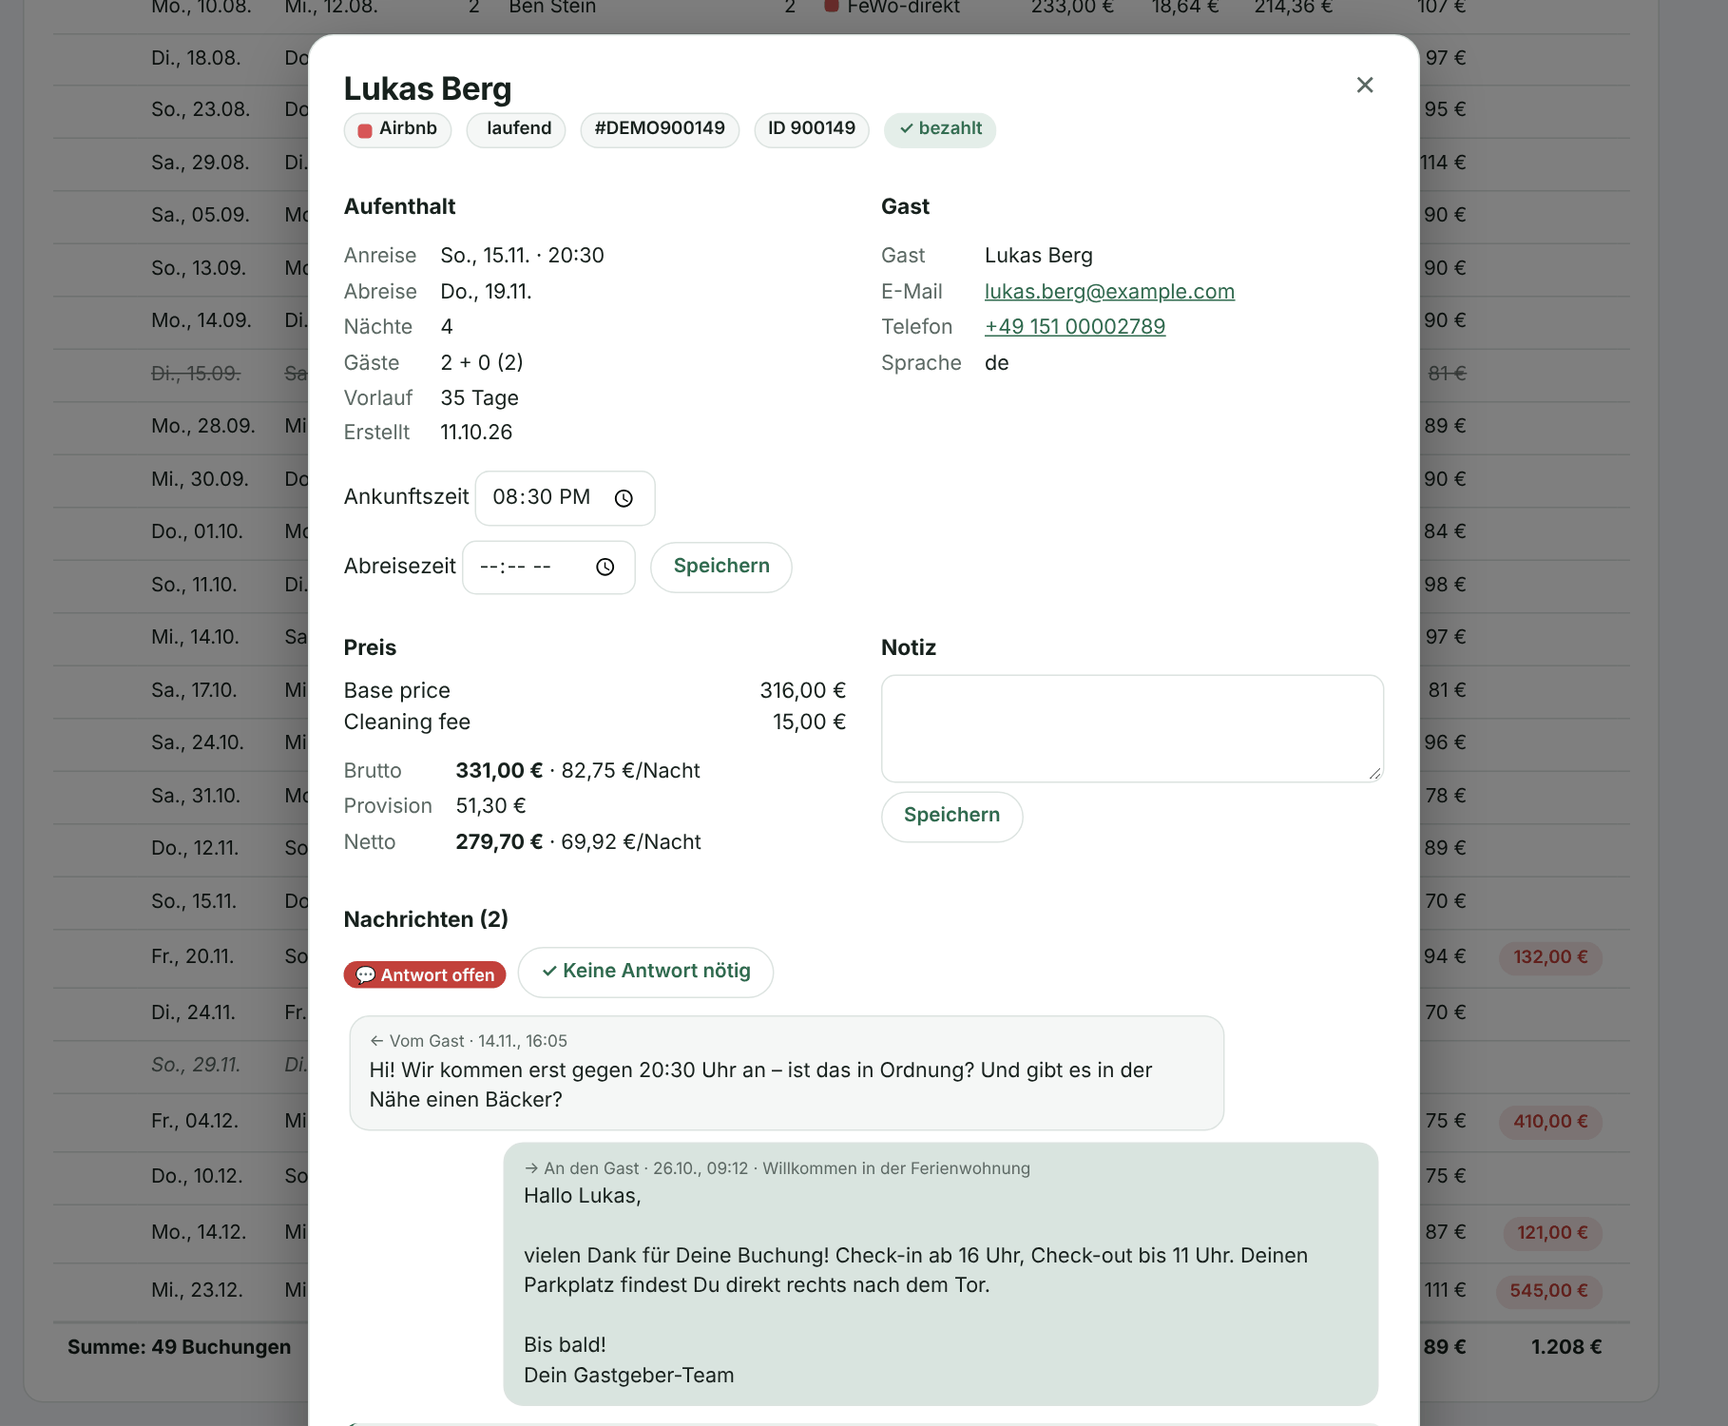
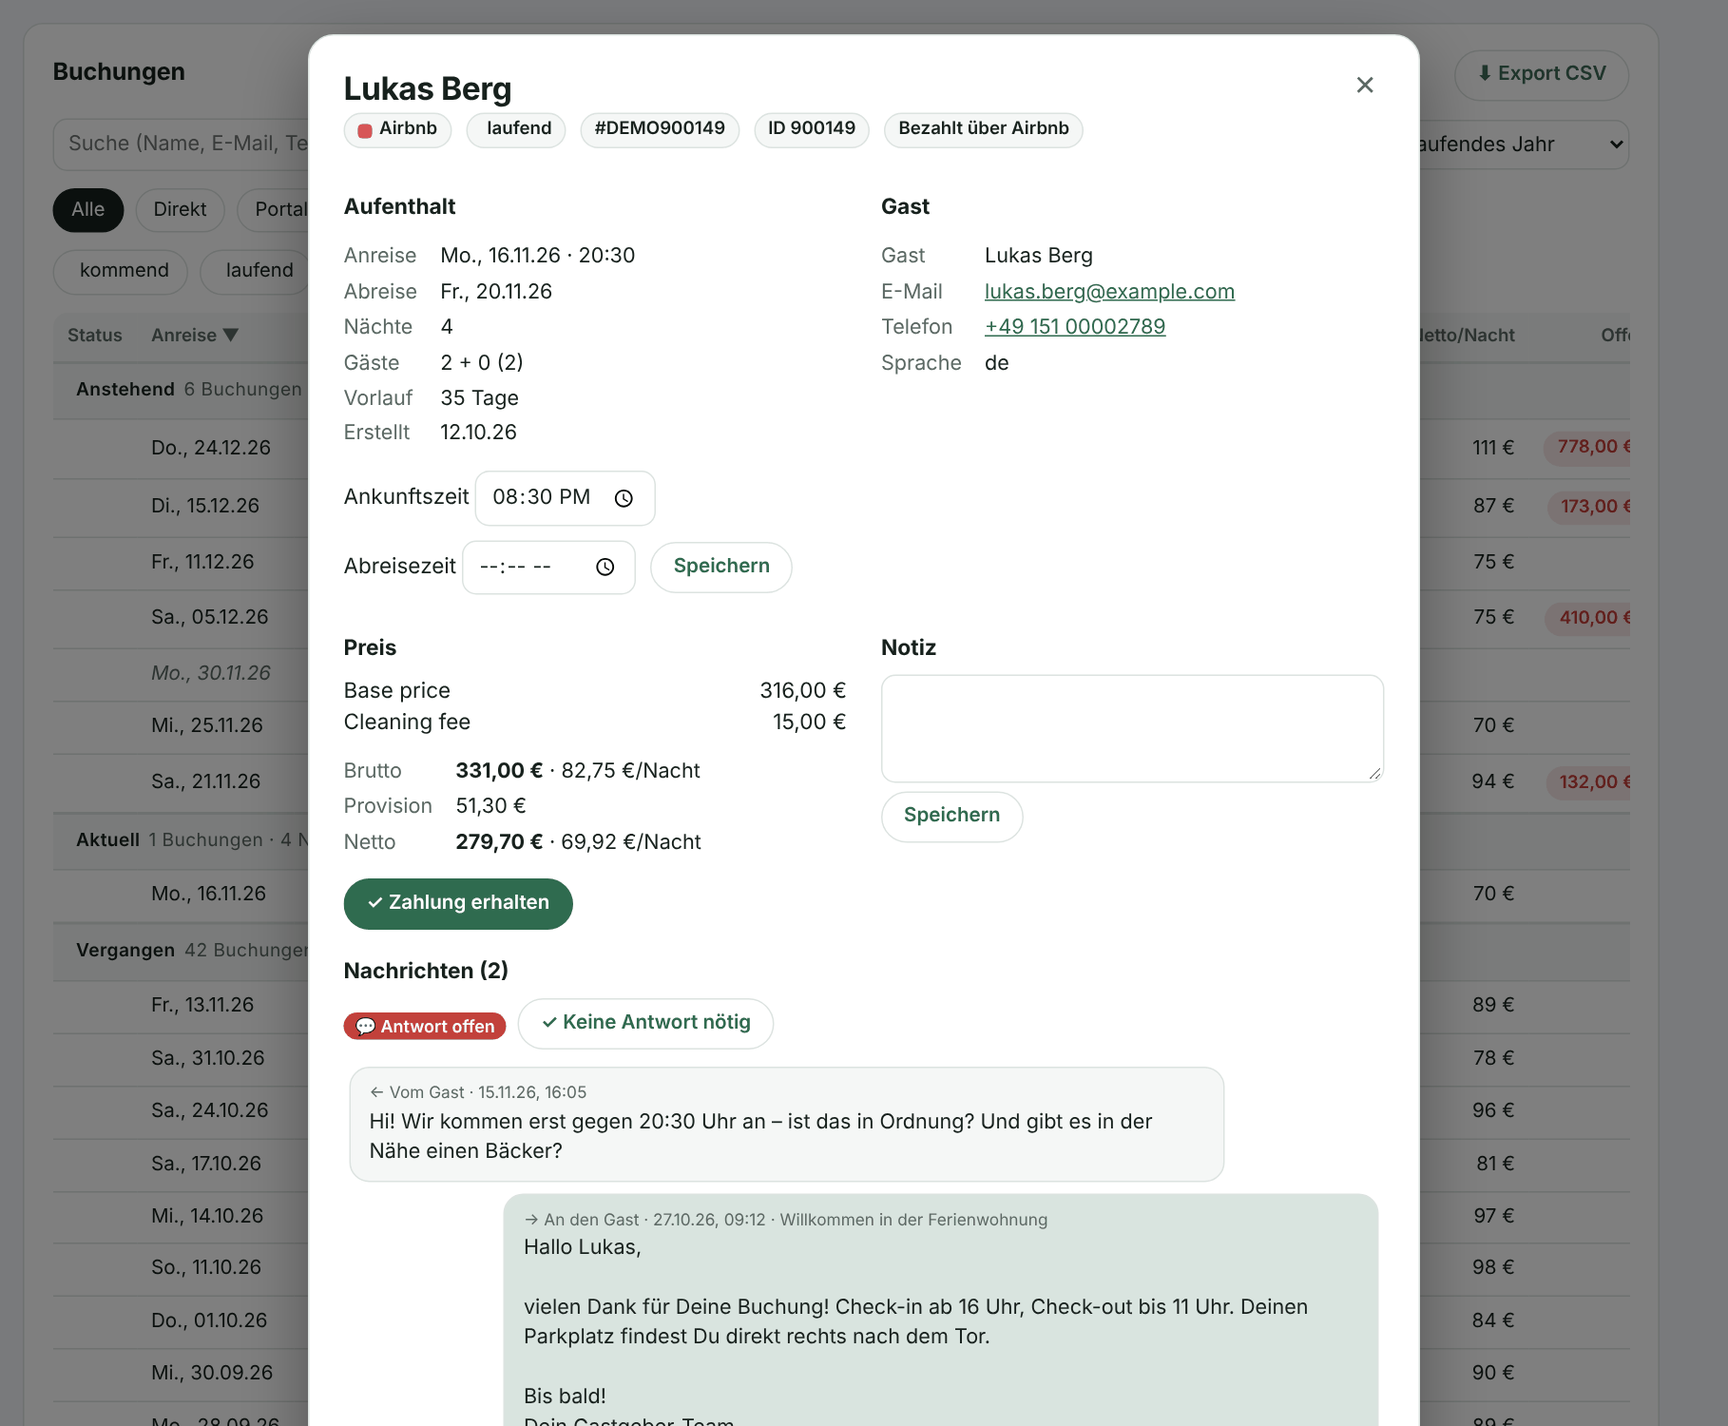
Dashboard: Portal-Buchungen als erhalten markieren (Buchungsdetails + Wartet auf dich)
Portal-Buchungen haben im Backend immer offen = 0; Status kommt jetzt aus
Smoobu price-paid. Details: Zahlung erhalten / Als offen markieren, Kopf
neutral "Bezahlt über <Kanal>". Übersicht: ab Anreisetag (bis 60 Tage zurück,
eigener Abruf nur Portale) als "Zahlung offen" mit Kanal, max. 3 + Rest-Zeile.

Claude-Session: https://claude.ai/code/session_01FCC4YZEa9BgT2hT7dsEPWb

diff --git a/custom_components/smoobu/www/smoobu-cards.js b/custom_components/smoobu/www/smoobu-cards.js
@@ -98,6 +98,8 @@ const EN = {
   "Als offen markieren": "Mark as open", "Anzahlung offen": "Prepayment open", "Restbetrag": "Balance",
   "Zahlung": "Payment", "als erhalten markieren": "mark as received", "wieder als offen markieren": "mark as open again",
   "In Smoobu gespeichert": "Saved in Smoobu", "offen": "open",
+  // v1.17.0: Portal-Buchungen als erhalten markieren
+  "über": "via", "Portal": "Portal", "Weitere ohne Markierung": "More not yet marked",
 };
 let LANG = "de";
 const t = (s) => (LANG === "de" ? s : EN[s] || s);
@@ -770,6 +772,9 @@ class SmoobuOverviewCard extends SmoobuCard {
     .todo .ta { display: flex; gap: 8px; align-items: center; flex-wrap: wrap; }
     .todo .ago { margin-left: auto; font-size: .78rem; color: var(--sm-muted); }
     .todo .amt { font-size: 1.15rem; font-weight: 650; margin-right: auto; }
+    /* v1.17.0 (Portal): Brutto nur zur Orientierung – gedämpft, da beim Portal kein Geld offen ist */
+    .todo .amt.muted { color: var(--sm-muted); font-weight: 500; font-size: 1rem; }
+    .todo p .dot { width: 8px; height: 8px; vertical-align: 1px; }
     .done { color: var(--sm-muted); padding: 14px 0; }
     .foot { font-size: .76rem; color: var(--sm-muted); margin: 10px 2px 0; }
   `;
@@ -781,12 +786,19 @@ class SmoobuOverviewCard extends SmoobuCard {
     const m0 = D(today.slice(0, 8) + "01");
     const apts = this.multi ? info.wohnungen.filter((w) => !tg.entry_id || w.entry_id === tg.entry_id) : [apt];
     const rateEnd = iso(addDays(D(today), Math.max(this._config.gap_days, this._config.band_days) + 21));
-    const [month, ytd, last12, prevYear, list, ...rates] = await Promise.all([
+    // v1.17.0 (Portal): eigener Abruf nur für „Wartet auf dich“ – Portal-Buchungen ohne price-paid ab dem Anreisetag.
+    // Das normale Fenster (ab gestern) enthält schon abgereiste Gäste nicht mehr; es zu verlängern würde Band,
+    // Status-Satz, Lücken und Antwortstatus mitverändern. Daher separat: 60 Tage zurück bis morgen, nur Portale
+    // (Backend-Filter „portale“ = Kanalgruppe Portal). 60 Tage = genug Puffer für Rechnungen, ohne Altlasten
+    // aus Jahren vor der Einführung der Markierung anzuzeigen.
+    const [month, ytd, last12, prevYear, list, portalList, ...rates] = await Promise.all([
       this.store.ws("smoobu/analytics", { ...tg, period: "monat", compare: "vorjahr_stand" }),
       this.store.ws("smoobu/analytics", { ...tg, period: "jahr_bis_heute", compare: "vorjahr" }),
       this.store.ws("smoobu/analytics", { ...tg, start: iso(addMonths(m0, -11)), end: iso(addMonths(m0, 1)), compare: "vorjahr" }),
       this.store.ws("smoobu/analytics", { ...tg, period: "vorjahr", compare: "kein" }).catch(() => null),
       this.store.ws("smoobu/bookings", { ...tg, start: iso(addDays(D(today), -1)), end: iso(addDays(D(today), 180)) }),
+      this.store.ws("smoobu/bookings", { ...tg, start: iso(addDays(D(today), -60)), end: iso(addDays(D(today), 1)), channels: ["portale"] })
+        .then((r) => r.buchungen).catch(() => []),
       ...apts.map((w) => this.store.ws("smoobu/rates", { ...tg, apartment_id: w.apartment_id, start: today, end: rateEnd })
         .then((r) => r.preise).catch(() => ({}))),
     ]);
@@ -799,7 +811,9 @@ class SmoobuOverviewCard extends SmoobuCard {
       catch (e) { status = {}; }
     }
     const ratesBy = Object.fromEntries(apts.map((w, i) => [w.apartment_id, rates[i] || {}]));
-    return { apt, apts, info, today, month, ytd, last12, prevYear, bookings, status, ratesBy };
+    // Anreise ≤ heute, nicht storniert/gesperrt, ohne offenen Betrag (sonst normaler Weg) und noch nicht markiert
+    const portalOpen = portalList.filter((b) => !b.storniert && !b.blockiert && portalPay(b) && !b.bezahlt && b.anreise <= today);
+    return { apt, apts, info, today, month, ytd, last12, prevYear, bookings, status, ratesBy, portalOpen };
   }
 
   // ---- Kopf ----------------------------------------------------------------
@@ -984,7 +998,7 @@ class SmoobuOverviewCard extends SmoobuCard {
 
   // ---- Listen --------------------------------------------------------------
   lists(d) {
-    const { apt, apts, today, bookings, status, ratesBy } = d;
+    const { apt, apts, today, bookings, status, ratesBy, portalOpen = [] } = d;
     const cur = apt.currency;
     const guests = bookings.filter((b) => !b.blockiert);
     const next = guests.filter((b) => b.anreise >= today && b.anreise > (this.multi ? "" : today)).slice(0, this._config.upcoming);
@@ -1008,8 +1022,13 @@ class SmoobuOverviewCard extends SmoobuCard {
     const unpaidAll = guests.filter((b) => b.offen > 0 && b.gruppe !== "Portal" && b.status !== "vergangen");
     const soon = iso(addDays(D(today), 30));
     const unpaid = unpaidAll.filter((b) => b.anreise <= soon).slice(0, 3);
+    // v1.17.0 (Portal): Portal-Buchungen ohne Markierung ab dem Anreisetag, älteste zuerst (Rechnung am längsten
+    // fällig), max. 3 – Rest als Anzahl/Summe-Zeile wie „Später fällig“
+    const portalAll = [...portalOpen].sort((a, b) => a.anreise.localeCompare(b.anreise) || a.id - b.id);
+    const portalShow = portalAll.slice(0, 3);
+    const portalRest = portalAll.slice(3);
     // v1.17.0: für die Buttons „✓ Erhalten“ / „✓ Anzahlung“ (bind sucht die Buchung per ID)
-    this._payBookings = new Map(unpaid.map((b) => [b.id, b]));
+    this._payBookings = new Map([...unpaid, ...portalShow].map((b) => [b.id, b]));
     this._payCur = cur;
     const later = unpaidAll.filter((b) => !unpaid.includes(b));
     const ago = (s) => {
@@ -1024,6 +1043,15 @@ class SmoobuOverviewCard extends SmoobuCard {
       ...open.map((b) => `<div class="todo msg"><div class="tt">${esc(b.gast)} ${t("wartet auf Antwort")}${this.code(b)}</div>
         ${status[b.id].letzte_text ? `<p>„${esc(status[b.id].letzte_text)}“</p>` : "<p></p>"}
         <div class="ta"><button class="btn" data-id="${b.id}">${t("Antworten")}</button><span class="ago">${ago(status[b.id].letzte_zeit)}</span></div></div>`),
+      // v1.17.0 (Portal): vor den Direkt-Zahlungen, weil schon fällig (Anreise erreicht) und damit „Später fällig“
+      // direkt unter den Direkt-Zahlungen bleibt, zu denen die Summe gehört. Kanalname statt rotem Betrag;
+      // Brutto gedämpft (.amt.muted), weil kein Geld offen ist, sondern nur die Markierung „erhalten“ fehlt
+      ...portalShow.map((b) => `<div class="todo"><div class="tt">${t("Zahlung offen")}${this.code(b)}
+        <button class="lnk" style="margin-left:auto" data-id="${b.id}">${t("Buchung öffnen")}</button></div>
+        <p>${esc(b.gast)}, ${t("Anreise")} ${fdowLong(b.anreise)} · <span class="dot" style="background:${colorOf(apt, b.kanal)}"></span> ${esc(b.kanal)}</p>
+        <div class="ta"><span class="amt muted">${money(b.brutto, cur, 2)}</span>
+          <button class="btn" data-pay="zahlung" data-pid="${b.id}">✓ ${t("Erhalten")}</button></div></div>`),
+      portalRest.length ? `<div class="sub" style="padding:4px 2px">${t("Weitere ohne Markierung")}: ${plural(portalRest.length, t("Buchung"), t("Buchungen"))}, ${money(portalRest.reduce((a, b) => a + (b.brutto || 0), 0), cur, 2)}</div>` : "",
       // v1.17.0: „✓ Erhalten“ (Gesamtbetrag) und ggf. „✓ Anzahlung“ direkt hier; „Buchung öffnen“ als Textlink,
       // damit Betrag + Buttons auch in der schmalen Spalte in eine Zeile passen
       ...unpaid.map((b) => { const p = payInfo(b); return `<div class="todo"><div class="tt">${t("Zahlung offen")}${this.code(b)}
@@ -1275,13 +1303,21 @@ function confirmDialog(text) {
 // Entscheidung: Bestätigung vor jedem Schreiben (wirkt direkt in Smoobu, auch für Mitbetreiber sichtbar)
 // und immer ein Rückweg („Als offen markieren“), falls versehentlich getippt.
 // ---------------------------------------------------------------------------
+// v1.17.0 (Portal): Portal-Buchungen (Airbnb, Booking.com, HomeToGo, Expedia …) haben im Backend immer
+// offen = 0, weil das Portal kassiert (Sensoren „Offene Zahlungen“ bleiben bewusst so). der Betreiber markiert sie
+// trotzdem als „erhalten“, sobald er die Rechnung an den Gast geschrieben hat → Status kommt hier allein aus
+// Smoobu „price-paid“ (b.bezahlt). portalPay = Portal-Buchung ohne offenen Betrag (Portal-Kanäle mit offenem
+// Betrag, z. B. FeWo-direkt ohne Ausnahme in den Optionen, laufen weiter über den normalen Weg mit Betrag).
+const portalPay = (b) => !!b && b.gruppe === "Portal" && !(b.offen > 0);
 const payInfo = (b) => {
   const live = b && !b.blockiert && !b.storniert;
   const pre = Number(b?.anzahlung) || 0;
   return {
-    // Gesamtzahlung offen: nur wenn das Backend einen offenen Betrag meldet (Portal-Kanäle haben nie einen)
-    canPay: live && b.offen > 0,
-    // Anzahlung separat nur, solange weder Anzahlung noch Gesamtbetrag bezahlt sind
+    // Gesamtzahlung offen: Backend meldet einen offenen Betrag – oder Portal-Buchung ohne price-paid
+    canPay: live && (b.offen > 0 || (portalPay(b) && !b.bezahlt)),
+    portal: portalPay(b),
+    // Anzahlung separat nur, solange weder Anzahlung noch Gesamtbetrag bezahlt sind (Portal: keine neue Logik –
+    // ohne offenen Betrag gibt es dort auch keinen Anzahlungs-Button, Rückweg canUnpre bleibt wie bisher)
     canPre: live && b.offen > 0 && pre > 0 && !b.anzahlung_bezahlt && !b.bezahlt,
     // Rückwege: in Smoobu als bezahlt markiert → wieder öffnen
     canUnpay: live && !!b.bezahlt,
@@ -1291,8 +1327,12 @@ const payInfo = (b) => {
 };
 async function markPayment(store, b, kind, paid, cur) {
   const pre = Number(b.anzahlung) || 0;
+  // Portal-Buchung ohne offenen Betrag: Brutto + Kanal nennen („Zahlung 412,00 € über Airbnb“), damit klar ist,
+  // dass hier kein Geld offen war, sondern nur der Status in Smoobu gesetzt wird
   const what = kind === "anzahlung" ? `${t("Anzahlung")} ${money(pre, cur, 2)}`
-    : `${t("Zahlung")}${b.offen > 0 ? " " + money(b.offen, cur, 2) : ""}`;
+    : b.offen > 0 ? `${t("Zahlung")} ${money(b.offen, cur, 2)}`
+    : portalPay(b) ? `${t("Zahlung")}${b.brutto ? " " + money(b.brutto, cur, 2) : ""} ${t("über")} ${b.kanal || t("Portal")}`
+    : t("Zahlung");
   const how = paid ? t("als erhalten markieren") : t("wieder als offen markieren");
   if (!(await confirmDialog(`${b.gast}: ${what} ${how}?`))) return false;
   const data = { reservation_id: b.id };
@@ -1955,7 +1995,11 @@ class SmoobuBookingDialog extends HTMLElement {
       <div class="row" style="margin-bottom:12px"><span class="badge"><span class="dot" style="background:${color}"></span> ${esc(b.kanal)}</span>
         <span class="badge"><ha-icon icon="${STATUS_ICON[b.status] || "mdi:help"}"></ha-icon> ${t(b.status || "")}</span>
         ${b.referenz ? `<span class="badge">#${esc(b.referenz)}</span>` : ""}<span class="badge">ID ${esc(b.id)}</span>
-        ${b.offen > 0 ? `<span class="badge bad">${t("Offen")} ${money(b.offen, cur, 2)}</span>` : b.blockiert ? "" : `<span class="badge good">✓ ${t("bezahlt")}</span>`}</div>
+        ${b.offen > 0 ? `<span class="badge bad">${t("Offen")} ${money(b.offen, cur, 2)}</span>` : b.blockiert ? ""
+          // v1.17.0 (Portal): ohne Markierung neutral „Bezahlt über <Kanal>“ – Geld ist beim Portal, aber noch nicht
+          // als erhalten markiert (kein Rot: nichts überfällig; kein Grün: der Betreiber hat es noch nicht abgehakt)
+          : portalPay(b) && !b.bezahlt ? `<span class="badge">${t("Bezahlt über")} ${esc(b.kanal)}</span>`
+          : `<span class="badge good">✓ ${t("bezahlt")}</span>`}</div>
       ${d.fehler ? `<div class="err">${esc(d.fehler)}</div>` : ""}
       <div class="sec">
         <div><h3>${t("Aufenthalt")}</h3>${kv([

diff --git a/tools/screenshots/demo_data.py b/tools/screenshots/demo_data.py
@@ -101,7 +101,11 @@ def build(today: date, apt: dict[str, Any] | None = None, seed: int = 2026, rid0
             "assistant-notice": "",
             "language": "de",
             "price": price,
-            "price-paid": "Yes" if arr < today or channel in ("Airbnb", "Booking.com") else "No",
+            # Portal-Buchungen (Airbnb/Booking.com): Portal kassiert, „price-paid“ markiert der Betreiber selbst, sobald die
+            # Rechnung an den Gast geschrieben ist → Anreisen der letzten 10 Tage inkl. heute noch ohne Markierung
+            # (zeigt „Zahlung offen“ mit Kanalname in „Wartet auf dich“ und „✓ Erhalten“ in den Buchungsdetails)
+            "price-paid": ("No" if today - timedelta(days=10) <= arr <= today else "Yes")
+            if channel in ("Airbnb", "Booking.com") else ("Yes" if arr < today else "No"),
             "prepayment": round(price * 0.3) if channel in ("Direct booking", "Website") else None,
             # v1.17.0: Anzahlung bei Anreisen in mehr als 14 Tagen noch offen (zeigt „✓ Anzahlung“)
             "prepayment-paid": "Yes" if arr <= today + timedelta(days=14) else "No",

diff --git a/CHANGELOG.md b/CHANGELOG.md
@@ -9,11 +9,13 @@ Changes are collected on the `develop` branch under "Unreleased". A release is c
 ## Unveröffentlicht / Unreleased
 
 **Deutsch**
-- **Zahlungseingang im Dashboard markieren:** In „Wartet auf dich“ (Übersicht) stehen bei offenen Zahlungen jetzt die Buttons „✓ Erhalten“ und – bei offener Anzahlung – „✓ Anzahlung“ (Betrag der Anzahlung in der Zeile); „Buchung öffnen“ ist dort ein Textlink. In den Buchungsdetails zeigt der Preisbereich den Restbetrag und die Buttons „✓ Anzahlung erhalten“ / „✓ Zahlung erhalten“ sowie als Rückweg „↶ Anzahlung offen“ / „↶ Als offen markieren“. Jede Änderung wird vorher bestätigt und über `smoobu.update_reservation` direkt in Smoobu gespeichert; „Zahlung erhalten“ setzt eine offene Anzahlung mit auf bezahlt. Portal-Buchungen (Portal kassiert) zeigen keine Buttons
+- **Zahlungseingang im Dashboard markieren:** In „Wartet auf dich“ (Übersicht) stehen bei offenen Zahlungen jetzt die Buttons „✓ Erhalten“ und – bei offener Anzahlung – „✓ Anzahlung“ (Betrag der Anzahlung in der Zeile); „Buchung öffnen“ ist dort ein Textlink. In den Buchungsdetails zeigt der Preisbereich den Restbetrag und die Buttons „✓ Anzahlung erhalten“ / „✓ Zahlung erhalten“ sowie als Rückweg „↶ Anzahlung offen“ / „↶ Als offen markieren“. Jede Änderung wird vorher bestätigt und über `smoobu.update_reservation` direkt in Smoobu gespeichert; „Zahlung erhalten“ setzt eine offene Anzahlung mit auf bezahlt
+- **Portal-Buchungen als erhalten markieren:** Auch Buchungen über Portale (Airbnb, Booking.com, HomeToGo, Expedia …) lassen sich jetzt als „erhalten“ markieren (z. B. sobald die Rechnung an den Gast geschrieben ist); maßgeblich ist der Smoobu-Status „bezahlt“. Buchungsdetails: „✓ Zahlung erhalten“ bzw. „↶ Als offen markieren“; der Kopf zeigt ohne Markierung neutral „Bezahlt über <Kanal>“, danach „✓ bezahlt“. „Wartet auf dich“: Portal-Buchungen ohne Markierung erscheinen ab dem Anreisetag (bis 60 Tage zurück) als „Zahlung offen“ mit Kanalname, Bruttobetrag gedämpft und „✓ Erhalten“; höchstens drei, der Rest als Zeile „Weitere ohne Markierung“. Sensoren und offene Zahlungen im Backend bleiben unverändert (Portal kassiert)
 - **Statistik-Werkbank, Teil 1 (Backend):** neuer WebSocket-Befehl `smoobu/stats` als Grundlage der kommenden Statistikseite. `mode: "query"` = Baukasten-Abfrage Kennzahl × Gruppierung × Aufteilung (18 Kennzahlen inkl. ADR, RevPAR, Netto-RevPAR, Stornoquote, Median-Vorlauf/-Aufenthalt; 17 Dimensionen inkl. Wochentag, Saison, Kanal, Vorlauf-/Aufenthaltsklassen, Hund, Sprache, Stammgast, Buchungsmonat; Filter Nächte/Hund/Sprache). Jede Zelle mit Anzahl Buchungen `n` und Kennzeichen „wenig Daten“ (n < 5). `mode: "pace"` = Buchungstempo des Zieljahres gegen die Vorjahre am gleichen Tag und Prognose aus der Nachbuchung aller verfügbaren Vorjahre (Median, Spanne P10–P90). `mode: "meta"` = Liste der Kennzahlen und Dimensionen
 
 **English**
-- **Mark payments as received in the dashboard:** "Waiting for you" (overview) now offers "✓ Received" for open payments and, if the prepayment is still open, "✓ Prepayment" (prepayment amount shown in the line); "Open booking" is a text link there. In the booking details the price section shows the balance and the buttons "✓ Prepayment received" / "✓ Payment received", plus "↶ Prepayment open" / "↶ Mark as open" to undo. Every change is confirmed first and saved straight to Smoobu via `smoobu.update_reservation`; "Payment received" also marks an open prepayment as paid. Portal bookings (collected by the portal) show no buttons
+- **Mark payments as received in the dashboard:** "Waiting for you" (overview) now offers "✓ Received" for open payments and, if the prepayment is still open, "✓ Prepayment" (prepayment amount shown in the line); "Open booking" is a text link there. In the booking details the price section shows the balance and the buttons "✓ Prepayment received" / "✓ Payment received", plus "↶ Prepayment open" / "↶ Mark as open" to undo. Every change is confirmed first and saved straight to Smoobu via `smoobu.update_reservation`; "Payment received" also marks an open prepayment as paid
+- **Mark portal bookings as received:** bookings via portals (Airbnb, Booking.com, HomeToGo, Expedia …) can now be marked as "received" too (e.g. once the invoice has been sent to the guest); the Smoobu "paid" status is used. Booking details: "✓ Payment received" or "↶ Mark as open"; without the mark the header shows a neutral "Paid via <channel>", afterwards "✓ paid". "Waiting for you": unmarked portal bookings appear from the arrival day on (up to 60 days back) as "Payment open" with the channel name, the gross amount muted and "✓ Received"; at most three, the rest as a "More not yet marked" line. Sensors and open payments in the backend are unchanged (collected by the portal)
 - **Statistics workbench, part 1 (backend):** new WebSocket command `smoobu/stats` as the basis of the upcoming statistics page. `mode: "query"` = builder query measure × grouping × split (18 measures incl. ADR, RevPAR, net RevPAR, cancellation rate, median lead time/stay; 17 dimensions incl. weekday, season, channel, lead-time/stay classes, dog, language, repeat guest, booking month; filters nights/dog/language). Every cell carries the booking count `n` and a "low data" flag (n < 5). `mode: "pace"` = booking pace of the target year versus previous years on the same day, plus a forecast from the pick-up of all available previous years (median, P10–P90 range). `mode: "meta"` = list of measures and dimensions
 
 ## 1.17.0b3 – 2026-11-16
